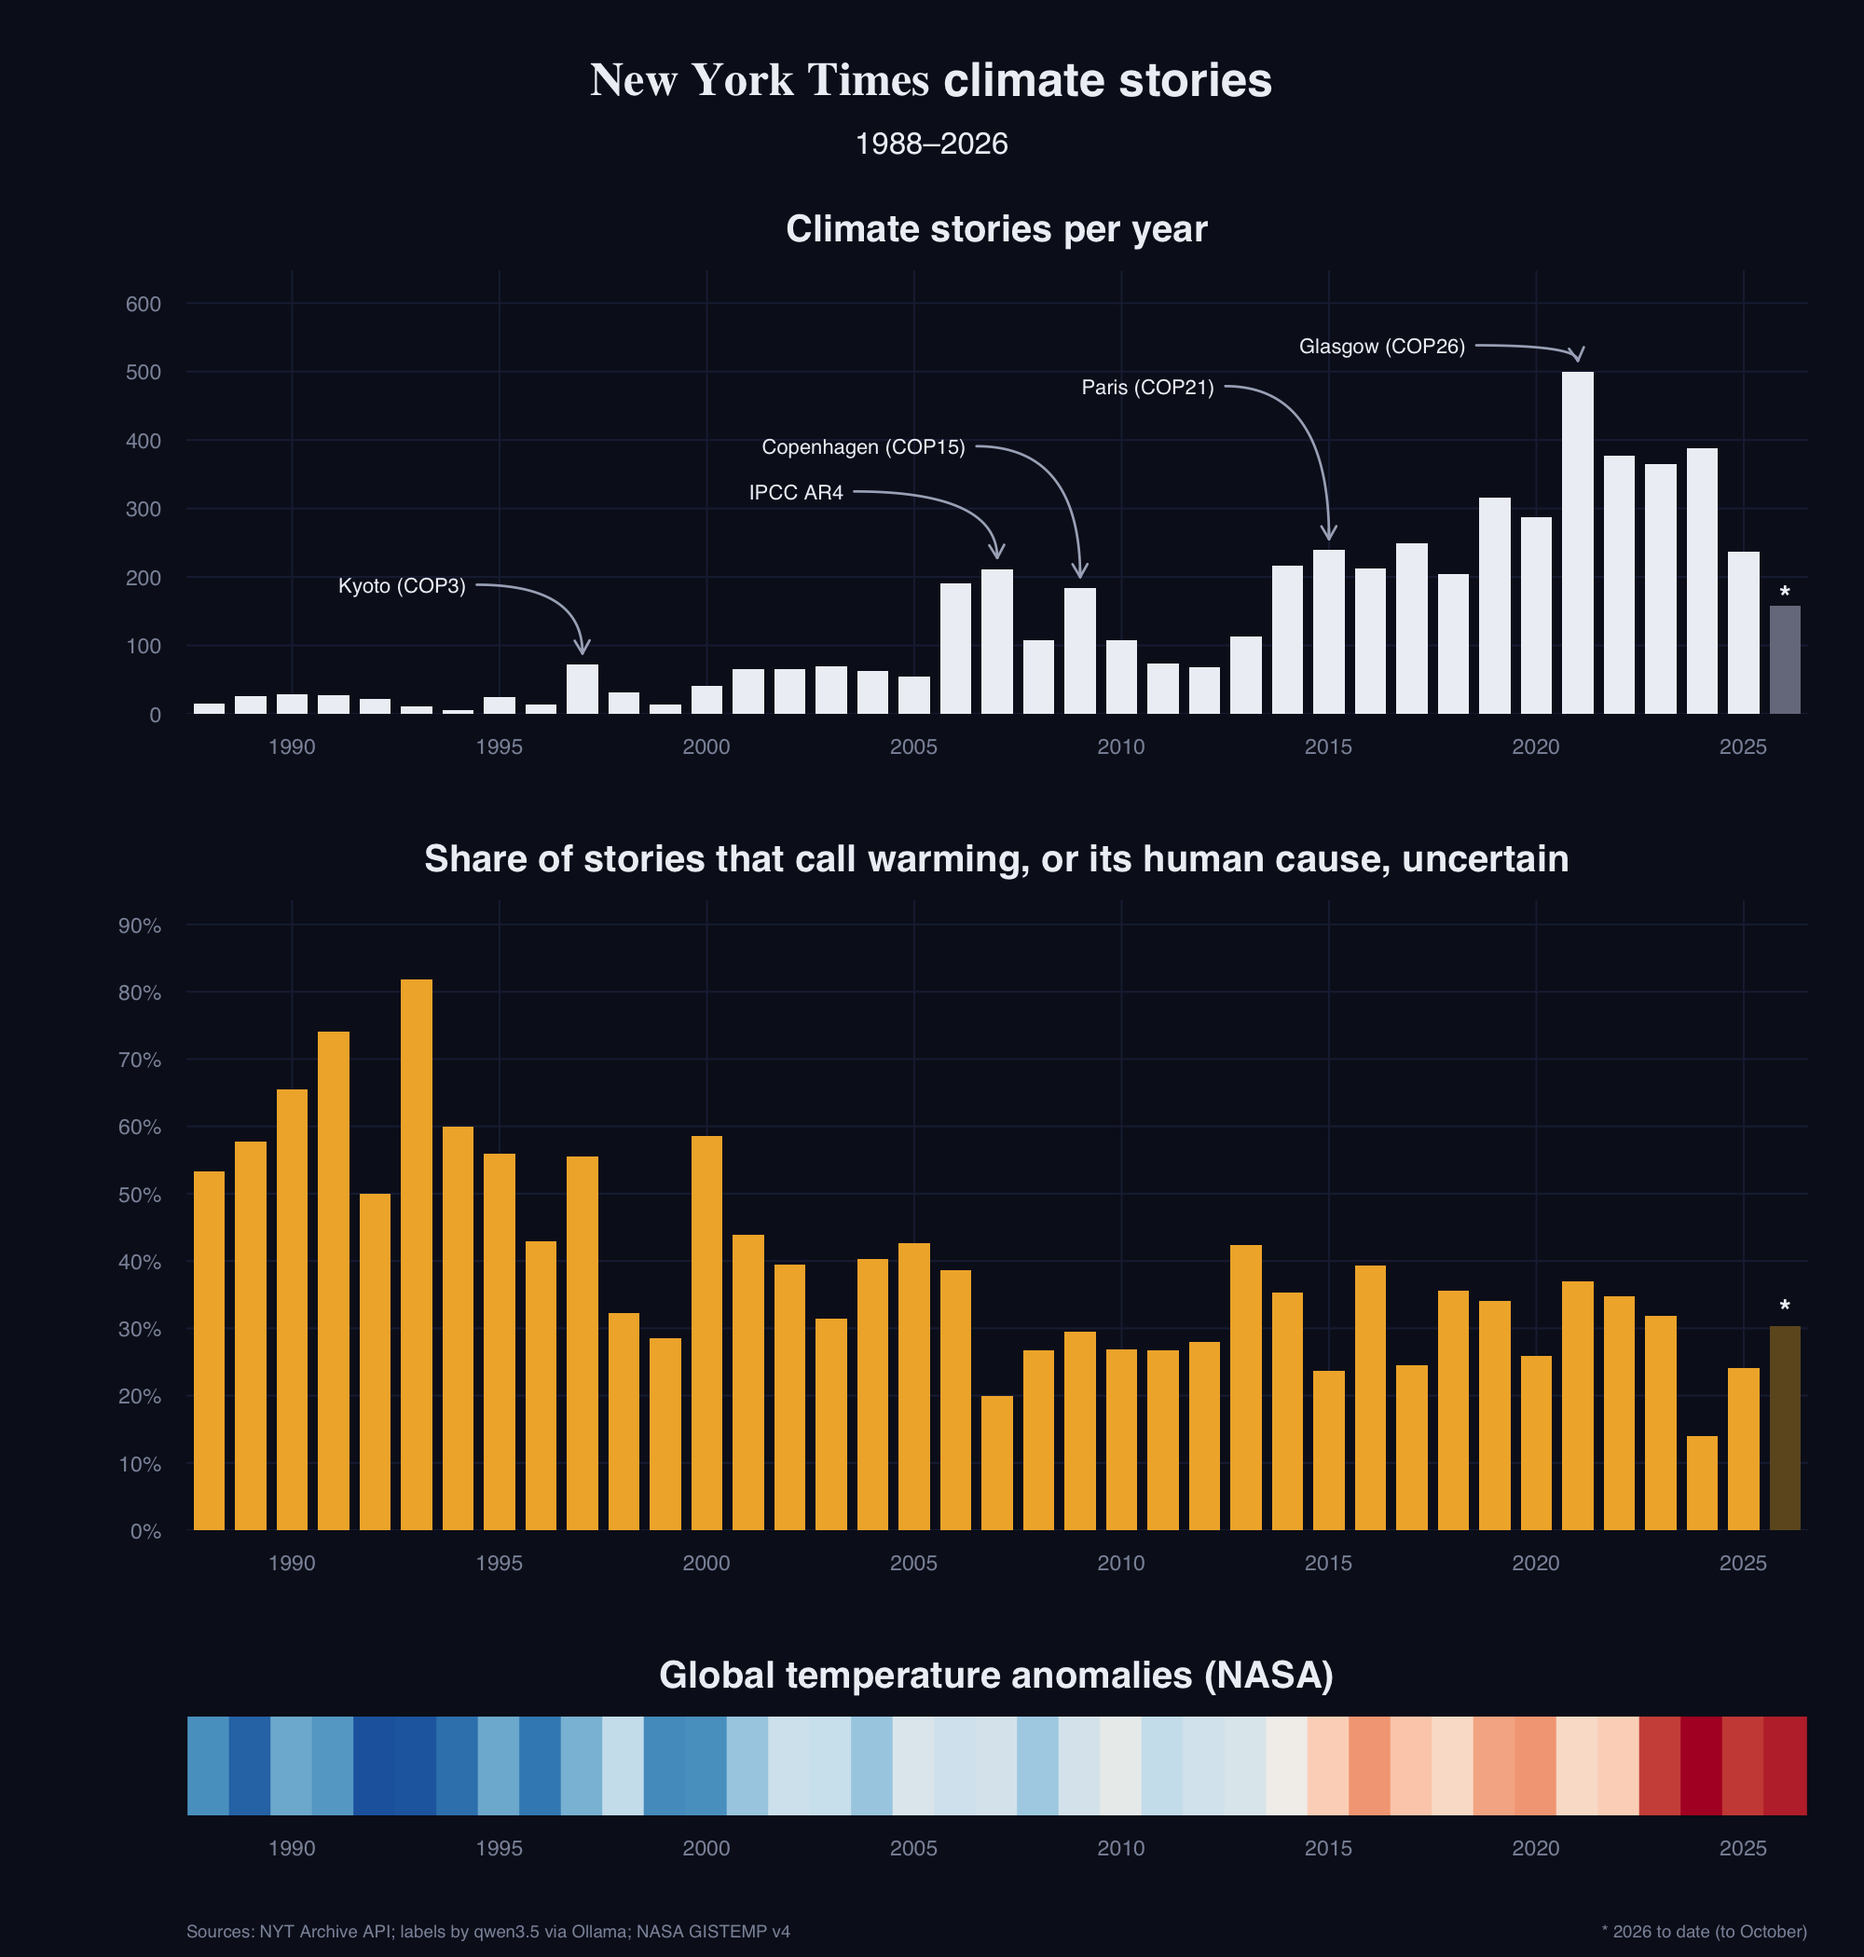
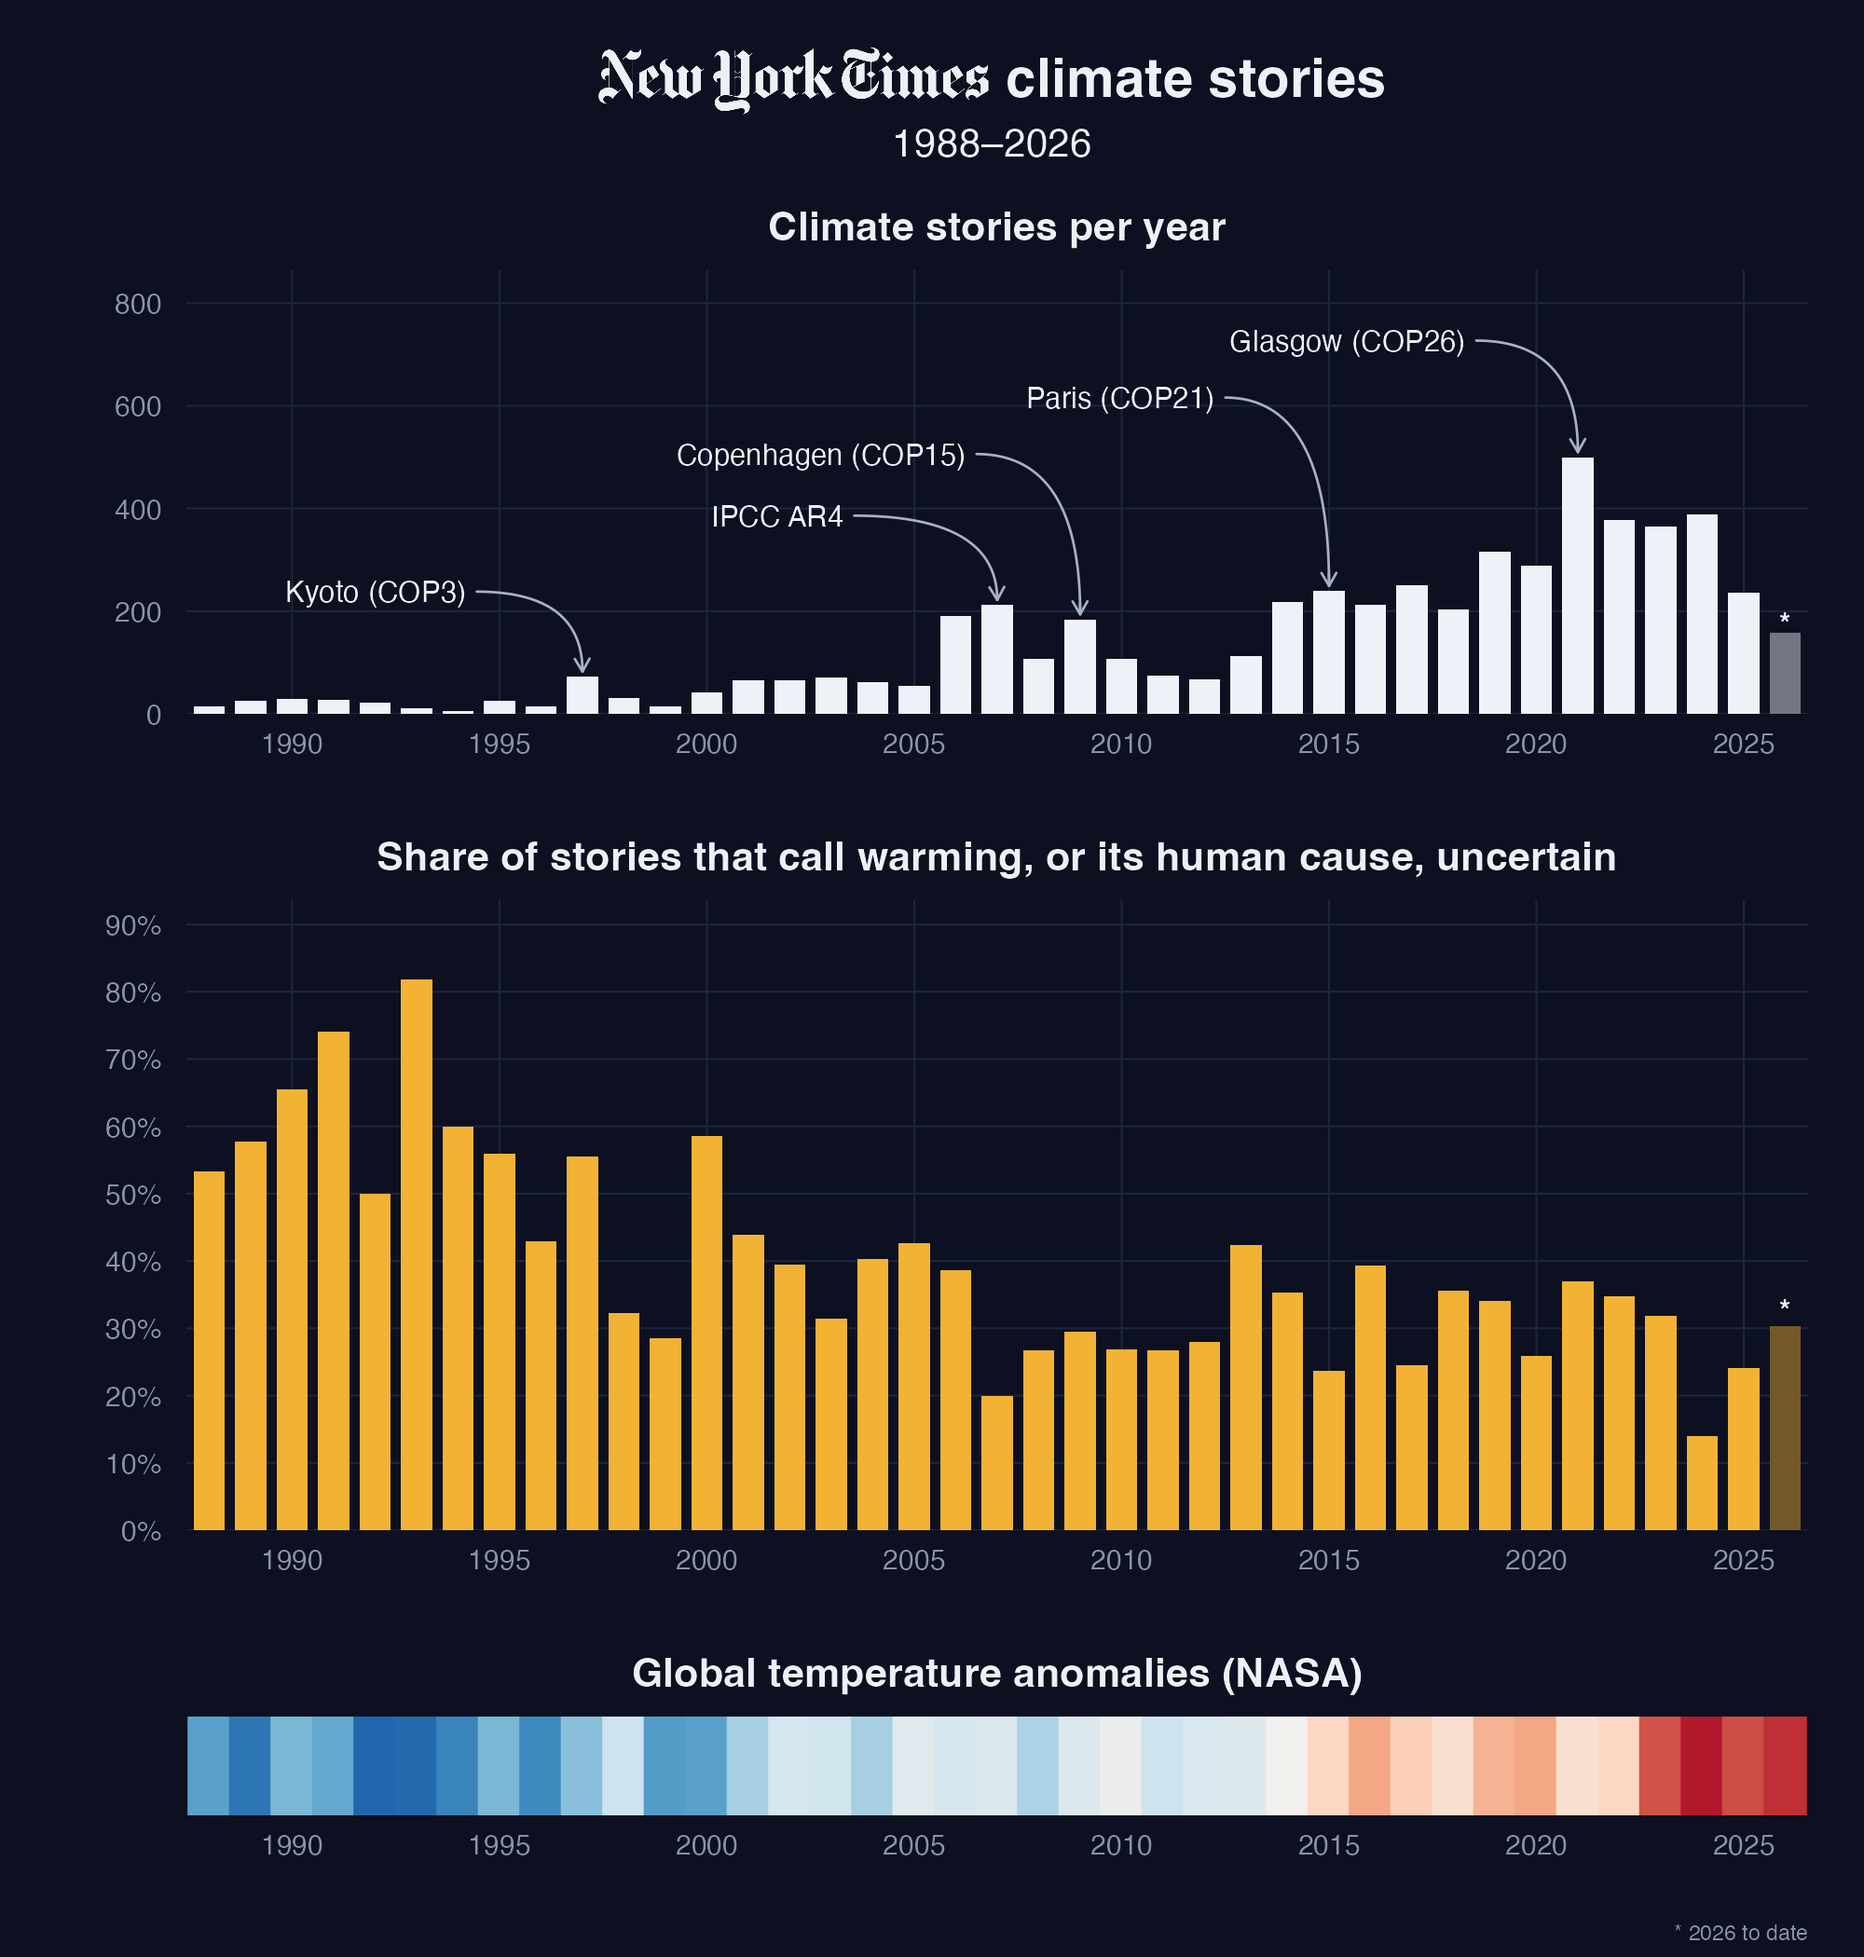
Match the target: NYT nameplate, 0-800 axis, event labels at the target's heights

diff --git a/NOTES.md b/NOTES.md
@@ -14,13 +14,13 @@ Open `hw4.Rproj`, then source `code/run_everything.R`.
 <!-- TODO: the table 2_clean_stories.R prints (also in data/filter_counts.csv), plus the stories the model called climate -->
 | step | stories |
 |---|---|
-| all items in the archive, Jan 1988 - Oct 2026 | |
-| carry a climate subject tag | |
-| type_of_material is News | |
-| not a blog post | |
-| not a duplicate | |
-| read by the model (at most 100 a year) | |
-| the model says climate is the main subject | |
+| all items in the archive, Jan 1988 - Oct 2026 | 3,435,087 |
+| carry a climate subject tag | 16,516 |
+| type_of_material is News | 11,550 |
+| not a blog post | 10,410 |
+| not a duplicate | 10,395 |
+| read by the model (at most 100 a year) | 2,930 |
+| the model says climate is the main subject | 1,787 |
 
 ## How the scripts find what they read
 <!-- TODO (your words, one line each; HW3 lost a point for leaving this out): how each pattern finds what it should, and why it is written that way. All of them are in the scripts' parameter sections -->
@@ -52,11 +52,14 @@ Open `hw4.Rproj`, then source `code/run_everything.R`.
 | 5_hand_check.R:29 | my climate labels are yes or no | |
 | 5_hand_check.R:30 | my warming labels are allowed, and empty on "no" stories | |
 | 5_hand_check.R:36 | every hand-labelled story has a model label | |
-| 6_make_figure.R:65 | stories_per_year.csv has every year | |
-| 6_make_figure.R:66 | labels.csv has every year | |
-| 6_make_figure.R:82 | NASA has a temperature for every year | |
-| 6_make_figure.R:112 | the panels fit in the figure | |
-| functions.R:19 | a file already downloaded (NASA) is not downloaded again | |
+| 6_make_figure.R:83 | stories_per_year.csv has every year | |
+| 6_make_figure.R:84 | labels.csv has every year | |
+| 6_make_figure.R:100 | NASA has a temperature for every year | |
+| 6_make_figure.R:133 | the nameplate image has a gap between its words | |
+| 6_make_figure.R:143 | the panels fit in the figure | |
+| 6_make_figure.R:164 | no year has more climate stories than the 0-800 axis | |
+| 6_make_figure.R:170 | every event label sits above its bar | |
+| functions.R:19 | a file already downloaded (NASA, the nameplate) is not downloaded again | |
 | functions.R:46 | a story already answered is not sent to the model again | |
 
 ## The model
